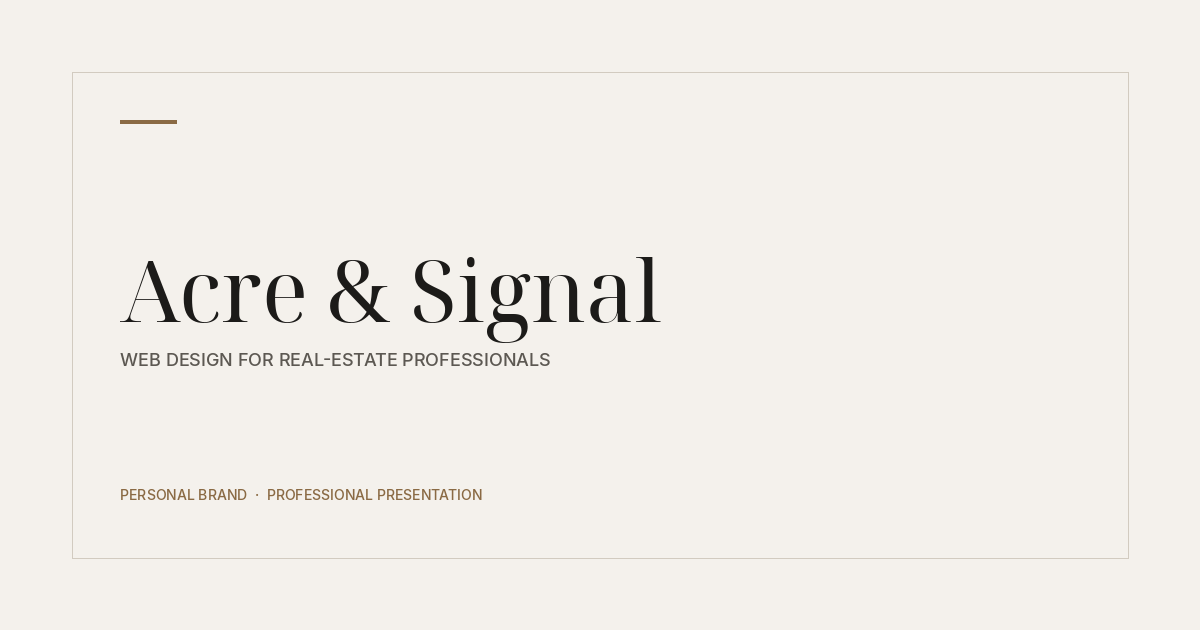
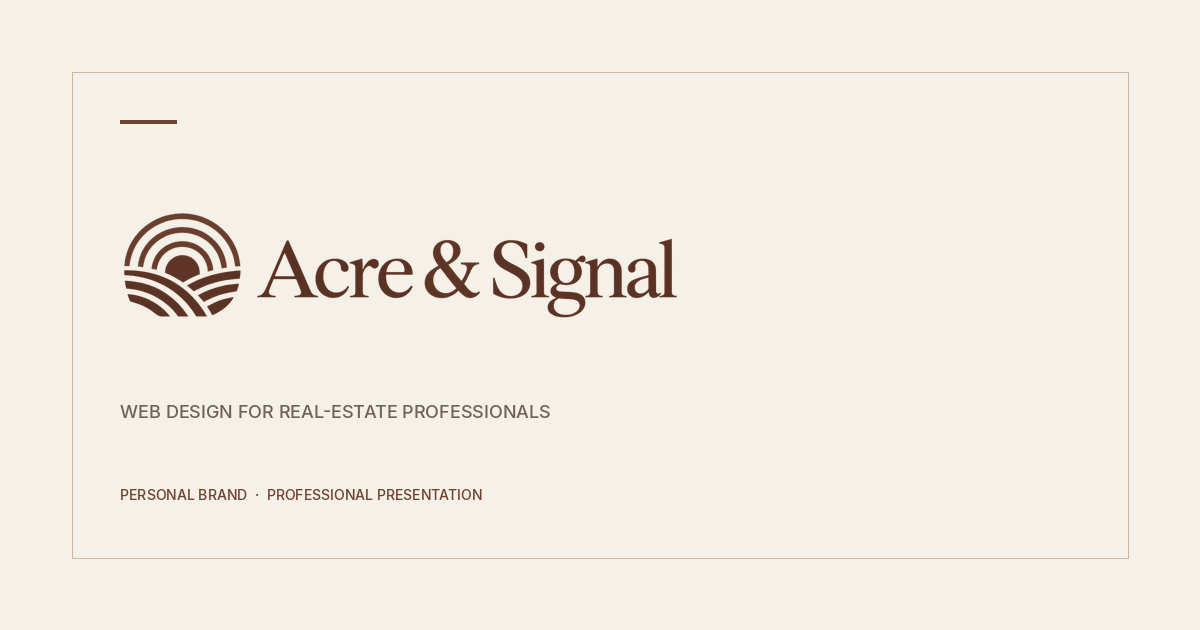
Apply the Acre & Signal beige and mahogany color system
Remap the design tokens to the warm cream, beige, and espresso palette,
swap in the official logo lockup, and retire leftover cool gray and
near-black brand colors.

diff --git a/css/styles.css b/css/styles.css
@@ -26,29 +26,29 @@
 
 :root {
   /* Surfaces */
-  --ivory: #f4f1ec;
-  --ivory-deep: #ebe6de;
-  --paper: #fbfaf8;
-  --ink: #12110f;
-  --ink-soft: #1c1a17;
-  --ink-line: #2b2825;
+  --ivory: #f6f1e8;
+  --ivory-deep: #e8dccb;
+  --paper: #f6f1e8;
+  --ink: #38160d;
+  --ink-soft: #4a2419;
+  --ink-line: #4a2419;
 
   /* Type colours */
-  --text: #14130f;
-  --text-muted: #5c574f;
-  --text-faint: #837c72;
-  --text-invert: #f4f1ec;
-  --text-invert-muted: #a9a299;
+  --text: #1d1714;
+  --text-muted: #6f6258;
+  --text-faint: #6f6258;
+  --text-invert: #f6f1e8;
+  --text-invert-muted: #e8dccb;
 
   /* Accent */
-  --bronze: #8a6a44;
-  --bronze-deep: #6b5031;
-  --bronze-light: #c9a878;
+  --bronze: #6e4230;
+  --bronze-deep: #4a2419;
+  --bronze-light: #cbb89f;
 
   /* Lines */
-  --line: #d9d3c9;
-  --line-strong: #c3bbae;
-  --line-invert: rgb(244 241 236 / 0.16);
+  --line: #cbb89f;
+  --line-strong: #cbb89f;
+  --line-invert: rgb(232 220 203 / 0.18);
 
   /* Type */
   --font-display: "Instrument Serif", "Times New Roman", Georgia, serif;
@@ -151,6 +151,20 @@ textarea {
   color: inherit;
 }
 
+input,
+select,
+textarea {
+  background: var(--ivory);
+  border: 1px solid var(--line);
+  color: var(--text);
+}
+
+input:focus-visible,
+select:focus-visible,
+textarea:focus-visible {
+  border-color: var(--ink-soft);
+}
+
 button,
 a {
   -webkit-tap-highlight-color: transparent;
@@ -167,9 +181,17 @@ h2,
 h3,
 h4 {
   margin: 0;
+  color: var(--ink);
   font-weight: 400;
   letter-spacing: -0.028em;
   text-wrap: balance;
+}
+
+[data-theme="dark"] h1,
+[data-theme="dark"] h2,
+[data-theme="dark"] h3,
+[data-theme="dark"] h4 {
+  color: var(--text-invert);
 }
 
 p {
@@ -311,9 +333,9 @@ ol[role="list"] {
    ========================================================================== */
 
 .btn {
-  --btn-bg: var(--ink);
+  --btn-bg: var(--ink-soft);
   --btn-fg: var(--ivory);
-  --btn-border: var(--ink);
+  --btn-border: var(--ink-soft);
   position: relative;
   display: inline-flex;
   min-height: 3.25rem;
@@ -458,7 +480,7 @@ ol[role="list"] {
   border: 1px solid var(--line-strong);
   border-radius: var(--radius);
   background: var(--paper);
-  box-shadow: 0 2rem 4.5rem -1.5rem rgb(18 17 15 / 0.28);
+  box-shadow: 0 2rem 4.5rem -1.5rem rgb(56 22 13 / 0.28);
 }
 
 .chrome__bar {
@@ -497,7 +519,7 @@ ol[role="list"] {
 }
 
 .chrome--flat {
-  box-shadow: 0 1.5rem 3rem -1.5rem rgb(18 17 15 / 0.3);
+  box-shadow: 0 1.5rem 3rem -1.5rem rgb(56 22 13 / 0.3);
 }
 
 .chrome img {
@@ -511,7 +533,7 @@ ol[role="list"] {
   border: 1px solid var(--ink-line);
   border-radius: 1.125rem;
   background: var(--ink);
-  box-shadow: 0 1.75rem 3.5rem -1rem rgb(18 17 15 / 0.4);
+  box-shadow: 0 1.75rem 3.5rem -1rem rgb(56 22 13 / 0.4);
 }
 
 .handset__notch {
@@ -522,7 +544,7 @@ ol[role="list"] {
   width: 22%;
   height: 0.1875rem;
   border-radius: 999px;
-  background: rgb(244 241 236 / 0.25);
+  background: rgb(246 241 232 / 0.25);
   transform: translateX(-50%);
 }
 
@@ -542,6 +564,7 @@ ol[role="list"] {
   border-bottom: 1px solid transparent;
   background: var(--ivory);
   background: color-mix(in srgb, var(--ivory) 88%, transparent);
+  color: var(--ink);
   backdrop-filter: saturate(140%) blur(10px);
   transition: background var(--t-base) var(--ease-soft),
     border-color var(--t-base) var(--ease-soft),
@@ -572,54 +595,30 @@ ol[role="list"] {
   z-index: 2;
   display: inline-flex;
   align-items: center;
-  gap: 0.625rem;
-  color: inherit;
-  font-family: var(--font-display);
-  font-size: 1.1875rem;
-  letter-spacing: -0.02em;
-  text-decoration: none;
-  white-space: nowrap;
-}
-
-/* Brand mark: an acre plot with a signal beacon. */
-.wordmark__mark {
-  display: block;
   flex-shrink: 0;
-  width: 0.95rem;
-  height: 1.25rem;
-  overflow: visible;
+  color: inherit;
+  text-decoration: none;
 }
 
-.wordmark__acre,
-.wordmark__mast {
-  fill: none;
-  stroke: currentcolor;
-  stroke-width: 1.35;
-  stroke-linejoin: round;
-  stroke-linecap: square;
+.wordmark__logo {
+  display: block;
+  width: auto;
+  height: clamp(1.85rem, 5.4vw, 2.2rem);
+  max-width: min(12rem, 58vw);
 }
 
-.wordmark__signal {
-  fill: var(--bronze);
+.wordmark__logo--light {
+  display: none;
 }
 
-.wordmark__amp {
-  color: var(--bronze);
-  font-style: italic;
+.masthead.is-inverted .wordmark__logo--dark,
+.footer .wordmark__logo--dark {
+  display: none;
 }
 
-.masthead.is-inverted .wordmark__signal,
-.footer .wordmark__signal {
-  fill: var(--bronze-light);
-}
-
-.masthead.is-inverted .wordmark__amp,
-.footer .wordmark__amp {
-  color: var(--bronze-light);
-}
-
-.wordmark:hover .wordmark__mark {
-  opacity: 1;
+.masthead.is-inverted .wordmark__logo--light,
+.footer .wordmark__logo--light {
+  display: block;
 }
 
 .mainnav__list {
@@ -752,7 +751,7 @@ ol[role="list"] {
     padding: var(--sp-3);
     border: 1px solid var(--line);
     background: var(--paper);
-    box-shadow: 0 1.5rem 3rem -1rem rgb(18 17 15 / 0.18);
+    box-shadow: 0 1.5rem 3rem -1rem rgb(56 22 13 / 0.18);
   }
 
   .masthead.is-inverted .mainnav {
@@ -1222,7 +1221,7 @@ ol[role="list"] {
   gap: 0.75rem;
   padding: 0.75rem 1rem;
   border: 1px solid var(--line-invert);
-  background: rgb(244 241 236 / 0.03);
+  background: rgb(246 241 232 / 0.03);
   color: var(--text-invert-muted);
   font-size: var(--fs-sm);
   opacity: 0.6;
@@ -1250,7 +1249,7 @@ ol[role="list"] {
 }
 
 .orbit.is-consolidated .orbit__node {
-  border-color: rgb(244 241 236 / 0.28);
+  border-color: rgb(246 241 232 / 0.28);
   opacity: 1;
   transform: translate(0, 0) rotate(0deg);
 }
@@ -1283,9 +1282,9 @@ ol[role="list"] {
   position: relative;
   width: 100%;
   padding: clamp(1.75rem, 4vw, 2.75rem) clamp(1.25rem, 3vw, 2.25rem);
-  border: 1px solid rgb(244 241 236 / 0.24);
+  border: 1px solid rgb(246 241 232 / 0.24);
   border-radius: 6rem 6rem 0 0;
-  background: linear-gradient(180deg, rgb(244 241 236 / 0.07), transparent 70%);
+  background: linear-gradient(180deg, rgb(246 241 232 / 0.07), transparent 70%);
   text-align: center;
 }
 
@@ -1515,9 +1514,9 @@ ol[role="list"] {
   position: relative;
   align-self: start;
   padding: clamp(1.75rem, 4vw, 2.75rem);
-  border: 1px solid rgb(244 241 236 / 0.22);
+  border: 1px solid rgb(246 241 232 / 0.22);
   border-radius: 7rem 7rem 0 0;
-  background: linear-gradient(180deg, rgb(244 241 236 / 0.06), transparent 60%);
+  background: linear-gradient(180deg, rgb(246 241 232 / 0.06), transparent 60%);
   text-align: center;
 }
 
@@ -1598,7 +1597,7 @@ ol[role="list"] {
   border-radius: 50%;
   margin-top: 0.45rem;
   background: var(--bronze-light);
-  box-shadow: 0 0 0 4px rgb(201 168 120 / 0.16);
+  box-shadow: 0 0 0 4px rgb(110 66 48 / 0.18);
 }
 
 .offer__reassurance {
@@ -2099,7 +2098,7 @@ ol[role="list"] {
   top: 0;
   bottom: 0;
   width: 50%;
-  border: 1px solid rgb(244 241 236 / 0.16);
+  border: 1px solid rgb(246 241 232 / 0.16);
   transition: transform 1200ms var(--ease), opacity 1200ms var(--ease);
 }
 
@@ -2177,9 +2176,12 @@ ol[role="list"] {
 }
 
 .footer__wordmark {
-  font-family: var(--font-display);
-  font-size: 1.375rem;
   text-decoration: none;
+}
+
+.footer .wordmark__logo {
+  height: 2.4rem;
+  max-width: 14rem;
 }
 
 .footer__brand p {
@@ -2242,7 +2244,7 @@ ol[role="list"] {
 
 .footer__legal p {
   max-width: 42rem;
-  color: #8d867c;
+  color: var(--text-invert-muted);
   font-size: var(--fs-micro);
   line-height: 1.7;
 }

diff --git a/index.html b/index.html
@@ -3,7 +3,7 @@
   <head>
     <meta charset="utf-8">
     <meta name="viewport" content="width=device-width, initial-scale=1">
-    <meta name="theme-color" content="#f4f1ec">
+    <meta name="theme-color" content="#F6F1E8">
     <meta name="color-scheme" content="light">
 
     <title>Acre &amp; Signal | Realtor Website Design</title>
@@ -44,6 +44,7 @@
     >
     <meta name="twitter:image:alt" content="Acre &amp; Signal — Web Design for Real-Estate Professionals">
 
+    <link rel="icon" href="assets/icons/favicon.png" type="image/png">
     <link rel="icon" href="assets/icons/favicon.svg" type="image/svg+xml">
     <link rel="preconnect" href="https://fonts.googleapis.com">
     <link rel="preconnect" href="https://fonts.gstatic.com" crossorigin>
@@ -78,12 +79,20 @@
     <header class="masthead" data-masthead>
       <div class="shell masthead__inner">
         <a class="wordmark" href="index.html" aria-label="Acre and Signal home">
-          <svg class="wordmark__mark" viewBox="0 0 20 26" aria-hidden="true" focusable="false">
-            <rect class="wordmark__acre" x="2" y="16.5" width="16" height="7.5" rx="0.6"></rect>
-            <path class="wordmark__mast" d="M10 6.5v17.5"></path>
-            <circle class="wordmark__signal" cx="10" cy="5" r="2.6"></circle>
-          </svg>
-          <span class="wordmark__text">Acre <span class="wordmark__amp">&amp;</span> Signal</span>
+          <img
+            class="wordmark__logo wordmark__logo--dark"
+            src="assets/images/brand/acre-and-signal-logo-dark.webp"
+            alt=""
+            width="960"
+            height="282"
+          >
+          <img
+            class="wordmark__logo wordmark__logo--light"
+            src="assets/images/brand/acre-and-signal-logo-light.webp"
+            alt=""
+            width="960"
+            height="282"
+          >
         </a>
 
         <button
@@ -1065,12 +1074,20 @@
       <div class="shell footer__grid">
         <div class="footer__brand">
           <a href="index.html" class="wordmark footer__wordmark" aria-label="Acre and Signal home">
-            <svg class="wordmark__mark" viewBox="0 0 20 26" aria-hidden="true" focusable="false">
-              <rect class="wordmark__acre" x="2" y="16.5" width="16" height="7.5" rx="0.6"></rect>
-              <path class="wordmark__mast" d="M10 6.5v17.5"></path>
-              <circle class="wordmark__signal" cx="10" cy="5" r="2.6"></circle>
-            </svg>
-            <span class="wordmark__text">Acre <span class="wordmark__amp">&amp;</span> Signal</span>
+            <img
+              class="wordmark__logo wordmark__logo--dark"
+              src="assets/images/brand/acre-and-signal-logo-dark.webp"
+              alt=""
+              width="960"
+              height="282"
+            >
+            <img
+              class="wordmark__logo wordmark__logo--light"
+              src="assets/images/brand/acre-and-signal-logo-light.webp"
+              alt=""
+              width="960"
+              height="282"
+            >
           </a>
           <p>Web Design for Real-Estate Professionals</p>
         </div>
